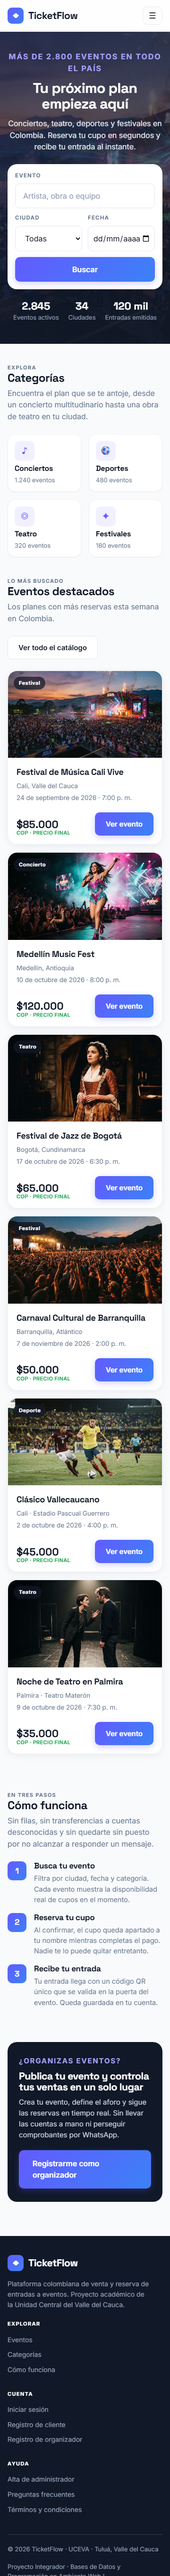
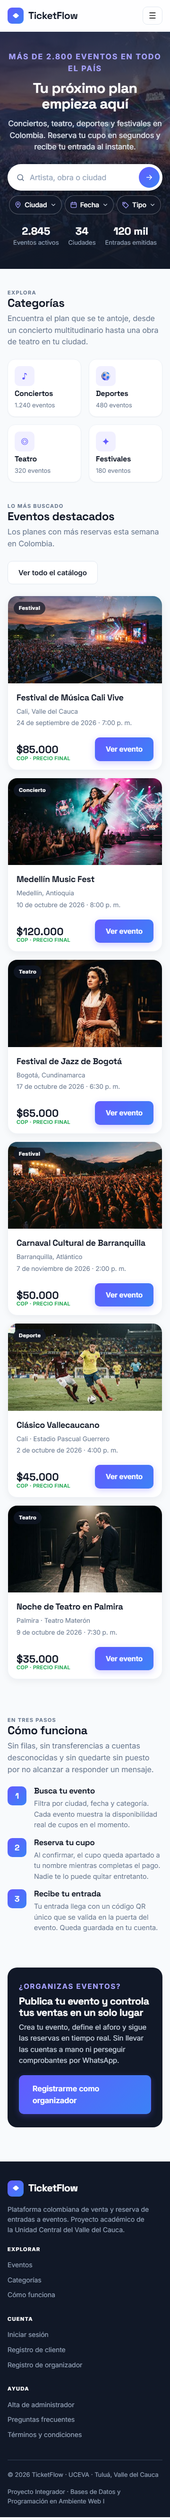
Buscador del hero en pildora compacta (direccion B de Claude Design)
La tarjeta blanca del buscador tapaba la foto en celular. Ahora:
- Celular y tablet: una barra redondeada con el evento y un boton
  circular, y debajo tres chips (ciudad, fecha, tipo) que abren el
  selector nativo del telefono y muestran lo elegido.
- Desde 1024 px: una sola barra Evento | Ciudad | Fecha | Buscar.

El hero en celular paso de 743 a 500 px de alto. Buscar lleva a los
eventos destacados mientras no exista la base de datos (Sprint 2).

Probado sin desborde a 360, 768, 1024 y 1440 px. Validador del W3C:
0 errores en HTML y en CSS.

diff --git a/sprint1/css/estilos.css b/sprint1/css/estilos.css
@@ -241,27 +241,116 @@ button{font-family:inherit}
 .hero .overline{color:#A8A3FF;margin-bottom:var(--e3)}
 .hero-datos{justify-content:center}
 
-/* Tarjeta del buscador — sin recortes, dentro del flujo */
+/* Buscador · dirección B «píldora compacta» (Claude Design)
+   Celular: barra redondeada blanca con el evento y un botón circular, y
+   debajo tres chips translúcidos sobre la foto (ciudad, fecha, tipo).
+   El select y la fecha reales quedan transparentes encima de cada chip:
+   al tocar el chip se abre el control nativo del teléfono.
+   Tablet: igual que el celular, centrado. Desde 1024 px: una sola barra
+   Evento | Ciudad | Fecha | Buscar. */
 .buscador{
-  background:#fff;border-radius:var(--r-card-lg);padding:var(--e4);
-  box-shadow:var(--sombra-lg);display:grid;gap:var(--e3);
-  /* Celular: el evento y el botón a todo el ancho; ciudad y fecha, que
-     son cortos, comparten fila. Así el buscador no se come la pantalla. */
-  grid-template-columns:repeat(2,minmax(0,1fr));
+  display:flex;flex-direction:column;gap:10px;
+  width:100%;max-width:560px;margin-inline:auto;
   text-align:left;   /* el hero va centrado; el formulario no */
 }
-.buscador .campo:first-child,
-.buscador .btn{grid-column:1 / -1;width:100%}
-.buscador input,.buscador select{padding:13px 12px}
-.buscador input[type="date"]{padding-inline:10px 8px}
-@media (min-width:768px){
+.bq-pildora{
+  display:flex;align-items:center;gap:10px;
+  height:56px;padding:6px 6px 6px 18px;
+  background:#fff;border-radius:var(--r-full);
+  box-shadow:0 10px 28px rgba(0,0,0,.30);
+}
+.bq-seg{position:relative;display:flex;align-items:center;gap:10px;min-width:0}
+.bq-evento{flex:1 1 auto}
+.bq-evento .bq-ico{color:var(--texto-suave);flex-shrink:0}
+.bq-textos{display:flex;flex-direction:column;gap:2px;min-width:0;flex:1 1 auto}
+.bq-evento .bq-etiqueta{       /* en celular la etiqueta solo la leen los lectores de pantalla */
+  position:absolute;width:1px;height:1px;overflow:hidden;clip:rect(0 0 0 0);white-space:nowrap;
+}
+.bq-evento input{
+  width:100%;min-width:0;border:0;outline:none;background:transparent;padding:0;
+  font-family:inherit;font-size:16px;color:var(--navy);
+}
+.bq-evento input::placeholder{color:var(--texto-tenue)}
+.bq-boton{
+  flex-shrink:0;width:44px;height:44px;border:0;border-radius:var(--r-full);
+  background:var(--grad);color:#fff;cursor:pointer;
+  display:flex;align-items:center;justify-content:center;gap:8px;
+  font-family:inherit;font-size:16px;font-weight:600;
+  transition:transform .15s ease, box-shadow .15s ease;
+}
+.bq-boton:hover{box-shadow:0 6px 20px rgba(99,91,255,.45);transform:translateY(-1px)}
+.bq-boton-texto{display:none}
+
+/* Chips */
+.bq-filtros{display:flex;gap:6px;justify-content:center;flex-wrap:wrap}
+.bq-chip{
+  height:40px;padding:0 10px;gap:6px;border-radius:var(--r-full);
+  border:1px solid rgba(255,255,255,.28);color:#fff;
+  background:rgba(17,24,39,.45);backdrop-filter:blur(8px);-webkit-backdrop-filter:blur(8px);
+  font-size:14px;font-weight:500;cursor:pointer;
+}
+.bq-chip .bq-ico{color:#A8A3FF;flex-shrink:0}
+.bq-chevron{color:#CBD5E1;flex-shrink:0}
+.bq-chip .bq-etiqueta{cursor:pointer;white-space:nowrap}
+.bq-chip .bq-valor{display:none;white-space:nowrap;overflow:hidden;text-overflow:ellipsis;max-width:92px}
+/* Con un valor elegido, el chip muestra el valor en vez del nombre del filtro. */
+.bq-chip.tiene-valor{border-color:#A8A3FF;background:rgba(99,91,255,.35)}
+.bq-chip.tiene-valor .bq-etiqueta{
+  position:absolute;width:1px;height:1px;overflow:hidden;clip:rect(0 0 0 0);
+}
+.bq-chip.tiene-valor .bq-valor{display:block}
+/* El control real, transparente y encima de todo el chip */
+.bq-control{
+  position:absolute;inset:0;width:100%;height:100%;
+  opacity:0;cursor:pointer;border:0;margin:0;font-size:16px;
+}
+.bq-control option{color:var(--navy)}
+.bq-seg:focus-within{outline:3px solid #A8A3FF;outline-offset:2px}
+.bq-evento:focus-within{outline:none}
+.bq-pildora:focus-within{box-shadow:0 0 0 3px #A8A3FF, 0 10px 28px rgba(0,0,0,.30)}
+
+@media (min-width:1024px){
   .buscador{
-    padding:var(--e5);align-items:end;
-    grid-template-columns:minmax(0,1.5fr) minmax(0,1fr) minmax(0,1fr) auto;
+    flex-direction:row;align-items:stretch;gap:0;max-width:900px;
+    height:72px;padding:8px 8px 8px 10px;
+    background:#fff;border-radius:var(--r-full);
+    box-shadow:0 16px 40px rgba(0,0,0,.32);
   }
-  .buscador .campo:first-child,
-  .buscador .btn{grid-column:auto;width:auto}
-  .buscador input,.buscador select{padding:15px 16px}
+  .buscador:focus-within{box-shadow:0 0 0 3px #A8A3FF, 0 16px 40px rgba(0,0,0,.32)}
+  /* Los dos grupos del celular desaparecen como cajas: sus controles pasan
+     a ser segmentos de una sola barra, y el botón va al final. */
+  .bq-pildora,.bq-filtros{display:contents}
+  .bq-pildora:focus-within{box-shadow:none}
+  .bq-seg{padding:0 18px;border-radius:var(--r-full)}
+  .bq-evento{flex:1.6 1 0;order:1}
+  .bq-filtros .bq-seg:nth-child(1){order:2}
+  .bq-filtros .bq-seg:nth-child(2){order:3}
+  .bq-boton{order:5}
+  .bq-tipo{display:none}   /* en escritorio las categorías están justo debajo */
+
+  .bq-seg + .bq-seg,.bq-filtros .bq-seg{border-left:1px solid var(--linea)}
+  .bq-evento .bq-ico,.bq-chip .bq-ico{color:var(--indigo)}
+  .bq-evento .bq-etiqueta,
+  .bq-chip .bq-etiqueta,
+  .bq-chip.tiene-valor .bq-etiqueta{
+    position:static;width:auto;height:auto;clip:auto;overflow:visible;
+    font-size:11px;font-weight:700;letter-spacing:.1em;text-transform:uppercase;
+    color:var(--texto-suave);
+  }
+  .bq-evento input{font-size:15px}
+
+  .bq-chip,.bq-chip.tiene-valor{
+    flex:1 1 0;height:auto;border:0;border-left:1px solid var(--linea);
+    background:none;backdrop-filter:none;-webkit-backdrop-filter:none;
+    color:var(--navy);font-size:15px;border-radius:0;
+  }
+  .bq-chip .bq-valor{display:block;max-width:none}
+  .bq-chip:not(.tiene-valor) .bq-valor{color:var(--texto-tenue)}
+  .bq-chevron{display:none}
+  .bq-seg:focus-within{outline:none;background:var(--indigo-50)}
+
+  .bq-boton{width:auto;height:56px;padding:0 28px}
+  .bq-boton-texto{display:inline}
 }
 
 .hero-datos{

diff --git a/sprint1/index.html b/sprint1/index.html
@@ -69,24 +69,61 @@
         <p>Conciertos, teatro, deportes y festivales en Colombia. Reserva tu cupo en
            segundos y recibe tu entrada al instante.</p>
 
+        <!-- Buscador «píldora compacta» (dirección B de Claude Design).
+             Celular: una barra redondeada con el evento y el botón, y debajo
+             chips para ciudad, fecha y tipo. Desde 1024 px los mismos
+             controles se acomodan en una sola barra: Evento | Ciudad | Fecha. -->
         <form class="buscador" role="search" aria-label="Buscar eventos">
-          <div class="campo">
-            <label for="q-evento">Evento</label>
-            <input type="search" id="q-evento" name="evento" placeholder="Artista, obra o equipo">
+          <div class="bq-pildora">
+            <div class="bq-seg bq-evento">
+              <svg class="bq-ico" width="19" height="19" viewBox="0 0 24 24" fill="none" stroke="currentColor" stroke-width="2" stroke-linecap="round" stroke-linejoin="round" aria-hidden="true"><circle cx="11" cy="11" r="7"/><path d="M20 20l-3.5-3.5"/></svg>
+              <span class="bq-textos">
+                <label for="q-evento" class="bq-etiqueta">Evento</label>
+                <input type="search" id="q-evento" name="evento" placeholder="Artista, obra o ciudad">
+              </span>
+            </div>
+            <button type="submit" class="bq-boton" aria-label="Buscar">
+              <svg class="bq-ico" width="18" height="18" viewBox="0 0 24 24" fill="none" stroke="currentColor" stroke-width="2" stroke-linecap="round" stroke-linejoin="round" aria-hidden="true"><path d="M5 12h14M13 6l6 6-6 6"/></svg><span class="bq-boton-texto">Buscar</span>
+            </button>
           </div>
-          <div class="campo">
-            <label for="q-ciudad">Ciudad</label>
-            <select id="q-ciudad" name="ciudad">
-              <option value="">Todas</option>
-              <option>Bogotá</option><option>Medellín</option><option>Cali</option>
-              <option>Barranquilla</option><option>Tuluá</option><option>Palmira</option>
-            </select>
+
+          <div class="bq-filtros">
+            <div class="bq-seg bq-chip" data-vacio="Todas las ciudades">
+              <svg class="bq-ico" width="16" height="16" viewBox="0 0 24 24" fill="none" stroke="currentColor" stroke-width="2" stroke-linecap="round" stroke-linejoin="round" aria-hidden="true"><path d="M12 21s-7-6.2-7-11.5A7 7 0 0 1 19 9.5C19 14.8 12 21 12 21z"/><circle cx="12" cy="9.5" r="2.5"/></svg>
+              <span class="bq-textos">
+                <label for="q-ciudad" class="bq-etiqueta">Ciudad</label>
+                <span class="bq-valor" aria-hidden="true">Todas las ciudades</span>
+              </span>
+              <svg class="bq-chevron" width="14" height="14" viewBox="0 0 24 24" fill="none" stroke="currentColor" stroke-width="2" stroke-linecap="round" stroke-linejoin="round" aria-hidden="true"><path d="M6 9l6 6 6-6"/></svg>
+              <select id="q-ciudad" name="ciudad" class="bq-control">
+                <option value="">Todas las ciudades</option>
+                <option>Bogotá</option><option>Medellín</option><option>Cali</option>
+                <option>Barranquilla</option><option>Tuluá</option><option>Palmira</option>
+              </select>
+            </div>
+            <div class="bq-seg bq-chip" data-vacio="Cualquier fecha">
+              <svg class="bq-ico" width="16" height="16" viewBox="0 0 24 24" fill="none" stroke="currentColor" stroke-width="2" stroke-linecap="round" stroke-linejoin="round" aria-hidden="true"><rect x="3.5" y="5" width="17" height="15.5" rx="2.5"/><path d="M3.5 10h17M8 3v4M16 3v4"/></svg>
+              <span class="bq-textos">
+                <label for="q-fecha" class="bq-etiqueta">Fecha</label>
+                <span class="bq-valor" aria-hidden="true">Cualquier fecha</span>
+              </span>
+              <svg class="bq-chevron" width="14" height="14" viewBox="0 0 24 24" fill="none" stroke="currentColor" stroke-width="2" stroke-linecap="round" stroke-linejoin="round" aria-hidden="true"><path d="M6 9l6 6 6-6"/></svg>
+              <input type="date" id="q-fecha" name="fecha" class="bq-control">
+            </div>
+            <div class="bq-seg bq-chip bq-tipo" data-vacio="Todos">
+              <svg class="bq-ico" width="16" height="16" viewBox="0 0 24 24" fill="none" stroke="currentColor" stroke-width="2" stroke-linecap="round" stroke-linejoin="round" aria-hidden="true"><path d="M3 12V4h8l10 10-8 8L3 12z"/><circle cx="7.5" cy="8" r="1.5"/></svg>
+              <span class="bq-textos">
+                <label for="q-tipo" class="bq-etiqueta">Tipo</label>
+                <span class="bq-valor" aria-hidden="true">Todos</span>
+              </span>
+              <svg class="bq-chevron" width="14" height="14" viewBox="0 0 24 24" fill="none" stroke="currentColor" stroke-width="2" stroke-linecap="round" stroke-linejoin="round" aria-hidden="true"><path d="M6 9l6 6 6-6"/></svg>
+              <select id="q-tipo" name="tipo" class="bq-control">
+                <option value="">Todos</option>
+                <option>Conciertos</option><option>Deportes</option>
+                <option>Teatro</option><option>Festivales</option>
+              </select>
+            </div>
           </div>
-          <div class="campo">
-            <label for="q-fecha">Fecha</label>
-            <input type="date" id="q-fecha" name="fecha">
-          </div>
-          <button type="submit" class="btn btn-primario btn-lg">Buscar</button>
         </form>
 
         <div class="hero-datos">

diff --git a/sprint1/js/app.js b/sprint1/js/app.js
@@ -291,6 +291,41 @@
       });
     });
 
+    /* Buscador del hero: cada chip muestra lo que se eligió en su control.
+       La fecha abre el calendario nativo al tocar cualquier parte del chip. */
+    var MESES = ["ene", "feb", "mar", "abr", "may", "jun", "jul", "ago", "sep", "oct", "nov", "dic"];
+    Array.prototype.forEach.call(document.querySelectorAll(".bq-chip"), function (chip) {
+      var control = chip.querySelector(".bq-control");
+      var valor = chip.querySelector(".bq-valor");
+      function pintar() {
+        var v = control.value;
+        if (v && control.type === "date") {
+          var p = v.split("-");
+          v = parseInt(p[2], 10) + " " + MESES[parseInt(p[1], 10) - 1];
+        }
+        chip.classList.toggle("tiene-valor", !!v);
+        valor.textContent = v || chip.getAttribute("data-vacio");
+      }
+      control.addEventListener("change", pintar);
+      if (control.type === "date") {
+        control.addEventListener("click", function () {
+          try { control.showPicker(); } catch (e) { /* el navegador lo abre solo */ }
+        });
+      }
+      pintar();
+    });
+
+    var buscador = document.querySelector(".buscador");
+    if (buscador) {
+      // Todavía no hay base de datos que filtrar (Sprint 2): la búsqueda
+      // lleva a los eventos destacados en vez de recargar la página.
+      buscador.addEventListener("submit", function (e) {
+        e.preventDefault();
+        var destino = document.getElementById("eventos");
+        if (destino) destino.scrollIntoView({ behavior: "smooth" });
+      });
+    }
+
     /* Menú del encabezado en móvil · SDGE-3 + SDGE-10 */
     var menu = document.querySelector(".menu-btn");
     if (menu) {

diff --git a/README.md b/README.md
@@ -144,11 +144,17 @@ layout con `max-width`.
 
 | Punto de corte | Qué cambia |
 |---|---|
-| Base (360 px) | Menú desplegable, buscador compacto, eventos en 1 columna, categorías de a 2 |
+| Base (360 px) | Menú desplegable, buscador en píldora con chips de ciudad, fecha y tipo, eventos en 1 columna, categorías de a 2 |
 | `min-width: 576px` | Eventos y formularios en 2 columnas, pie en 2 columnas |
-| `min-width: 768px` | Buscador en una sola fila, categorías y pasos en fila, márgenes de 40 px |
-| `min-width: 1024px` | Barra de navegación completa, eventos en 3 columnas, pie en 4 columnas |
+| `min-width: 768px` | Categorías y pasos en fila, márgenes de 40 px |
+| `min-width: 1024px` | Barra de navegación completa, buscador en una sola barra (Evento · Ciudad · Fecha), eventos en 3 columnas, pie en 4 columnas |
 | 1280 px | Ancho máximo del contenido |
+
+El buscador del hero sigue la dirección **B · Píldora compacta** elegida en
+Claude Design: en celular, una barra redondeada con el evento y el botón, y
+debajo chips que abren el selector nativo de ciudad, fecha y tipo; en
+escritorio, una sola barra. Reemplaza la tarjeta blanca que tapaba la foto:
+el hero pasó de 743 a 500 px de alto en celular.
 
 Verificado sin desplazamiento horizontal a 360, 768, 1024 y 1440 px, y con
 el validador del W3C: **0 errores** en HTML y en CSS.
